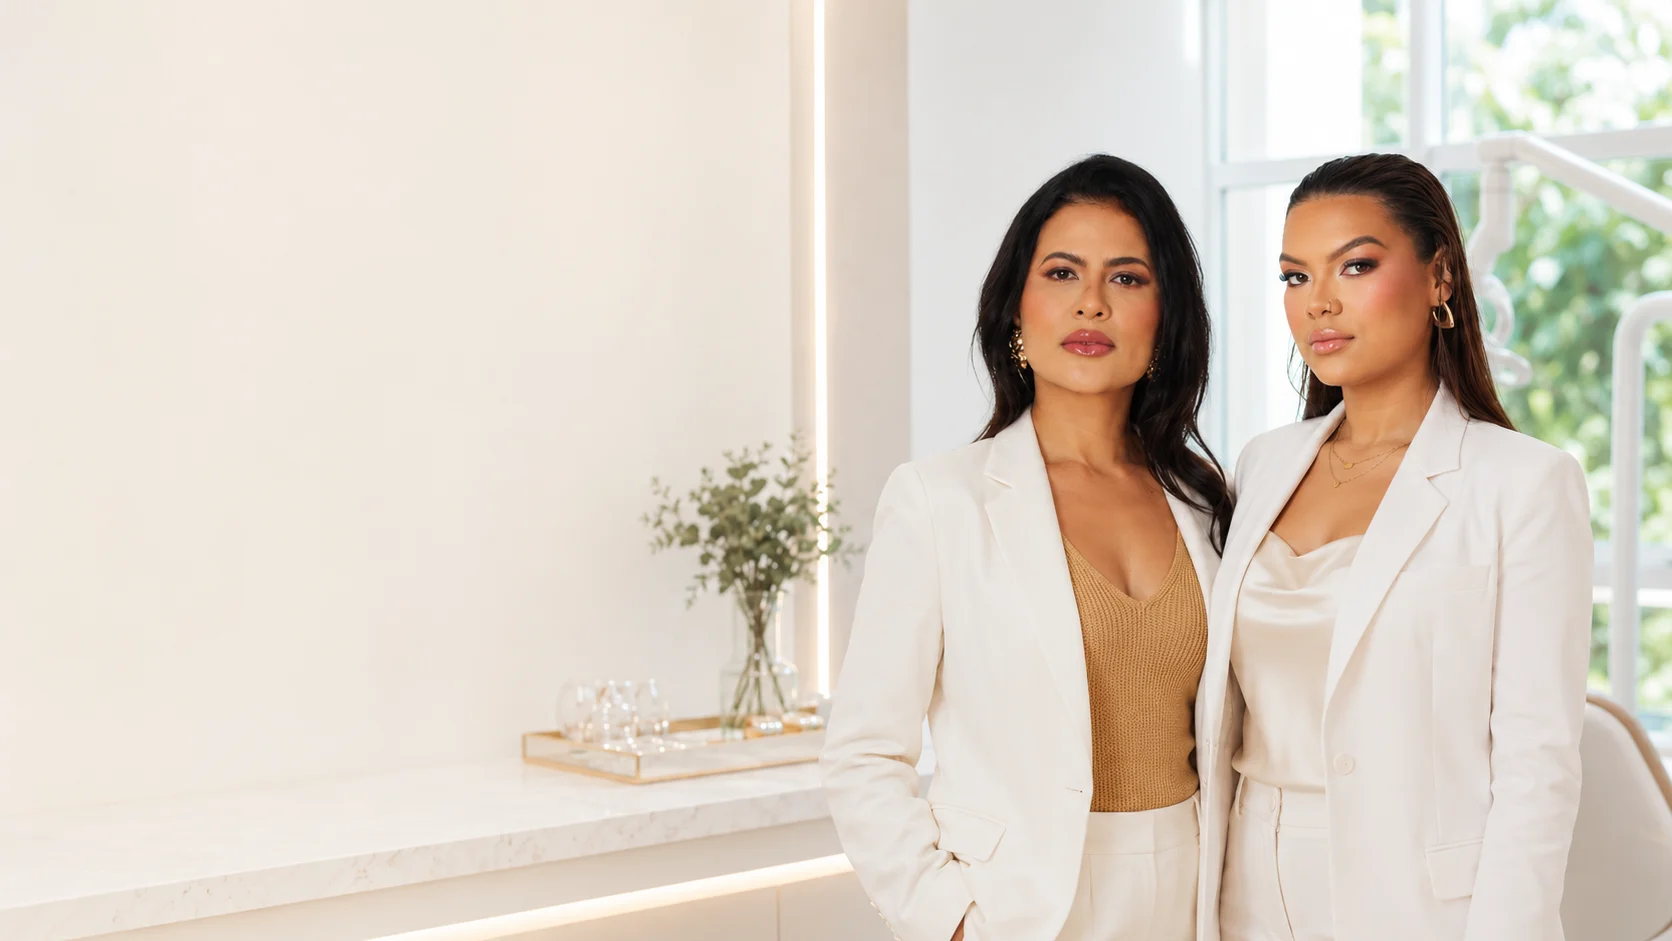
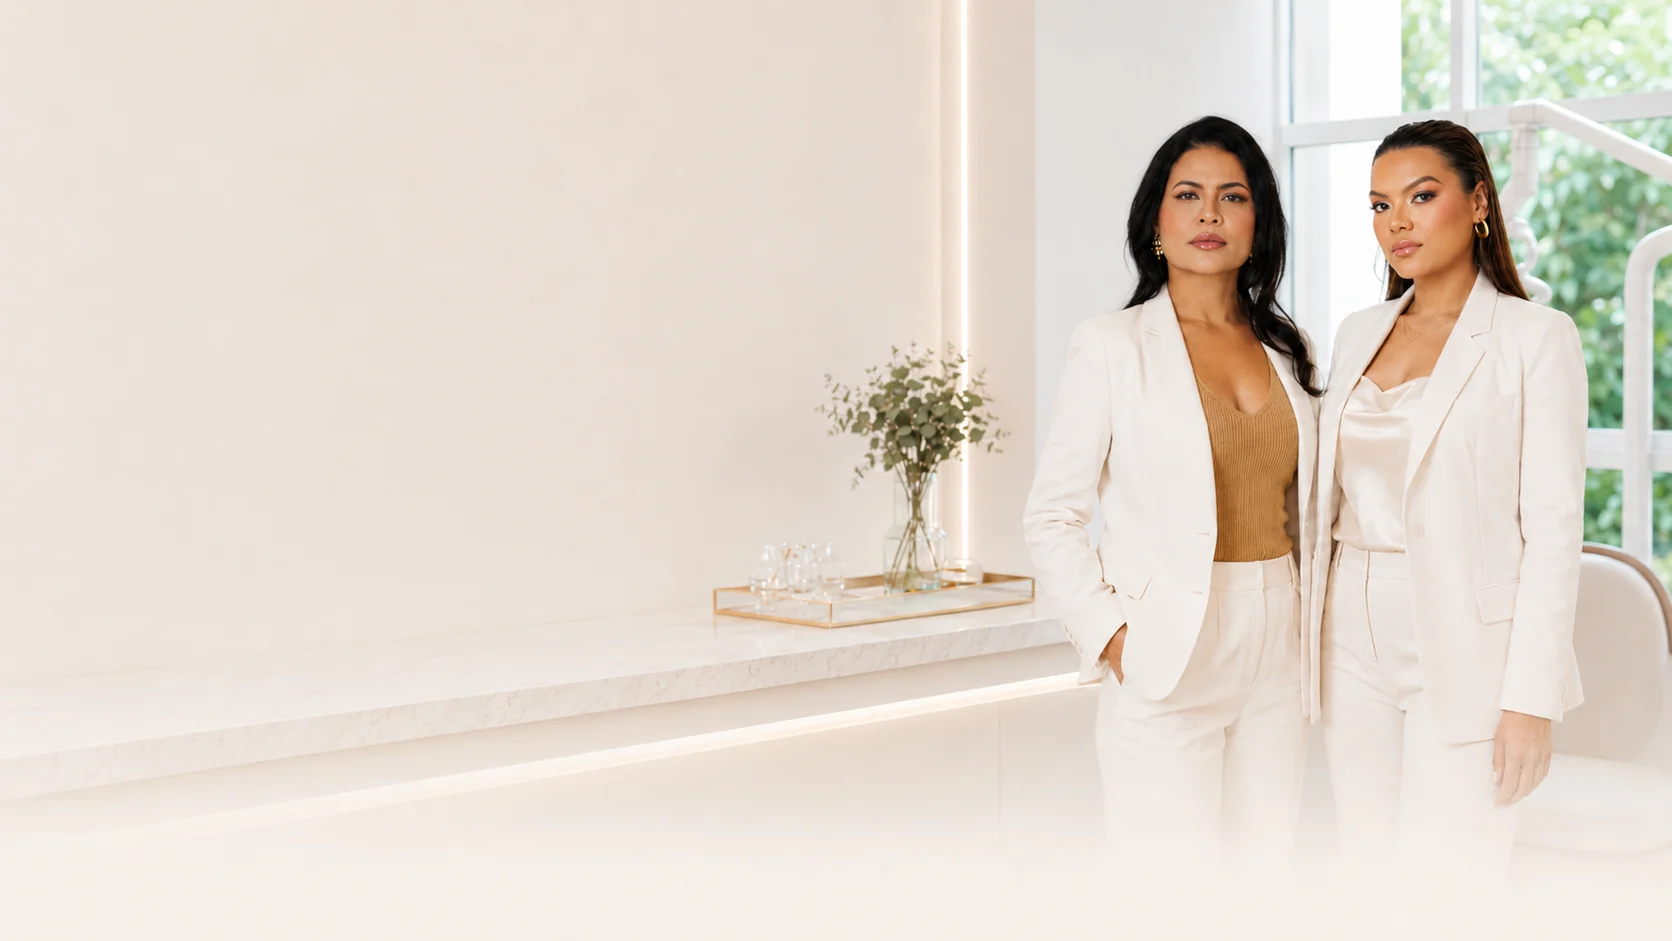
fix: update hero image framing

diff --git a/css/responsive.css b/css/responsive.css
@@ -18,7 +18,7 @@
         grid-template-columns: 1fr;
         padding: 1rem 0 3rem;
       }
-      .hero-bg-image { background-position: 70% top; }
+      .hero-bg-image { background-position: 88% top; }
       .hero-bg-overlay {
         background: linear-gradient(90deg, rgba(var(--c-bg-rgb), .44) 0%, rgba(var(--c-bg-rgb), .2) 42%, transparent 68%);
       }
@@ -75,7 +75,7 @@
       }
       .hero-bg-image {
         background-image: var(--hero-bg-mobile, url('../assets/images/hero-vanna.webp'));
-        background-position: 70% top;
+        background-position: 88% top;
       }
       .hero-kicker { display: none; }
       .hero-badge {
@@ -149,7 +149,7 @@
       }
       .hero-bg-image {
         background-image: var(--hero-bg-mobile, url('../assets/images/hero-vanna.webp'));
-        background-position: 70% top;
+        background-position: 88% top;
       }
       .hero-bg-overlay {
         background: linear-gradient(90deg, rgba(var(--c-bg-rgb), .5) 0%, rgba(var(--c-bg-rgb), .24) 44%, transparent 72%);
